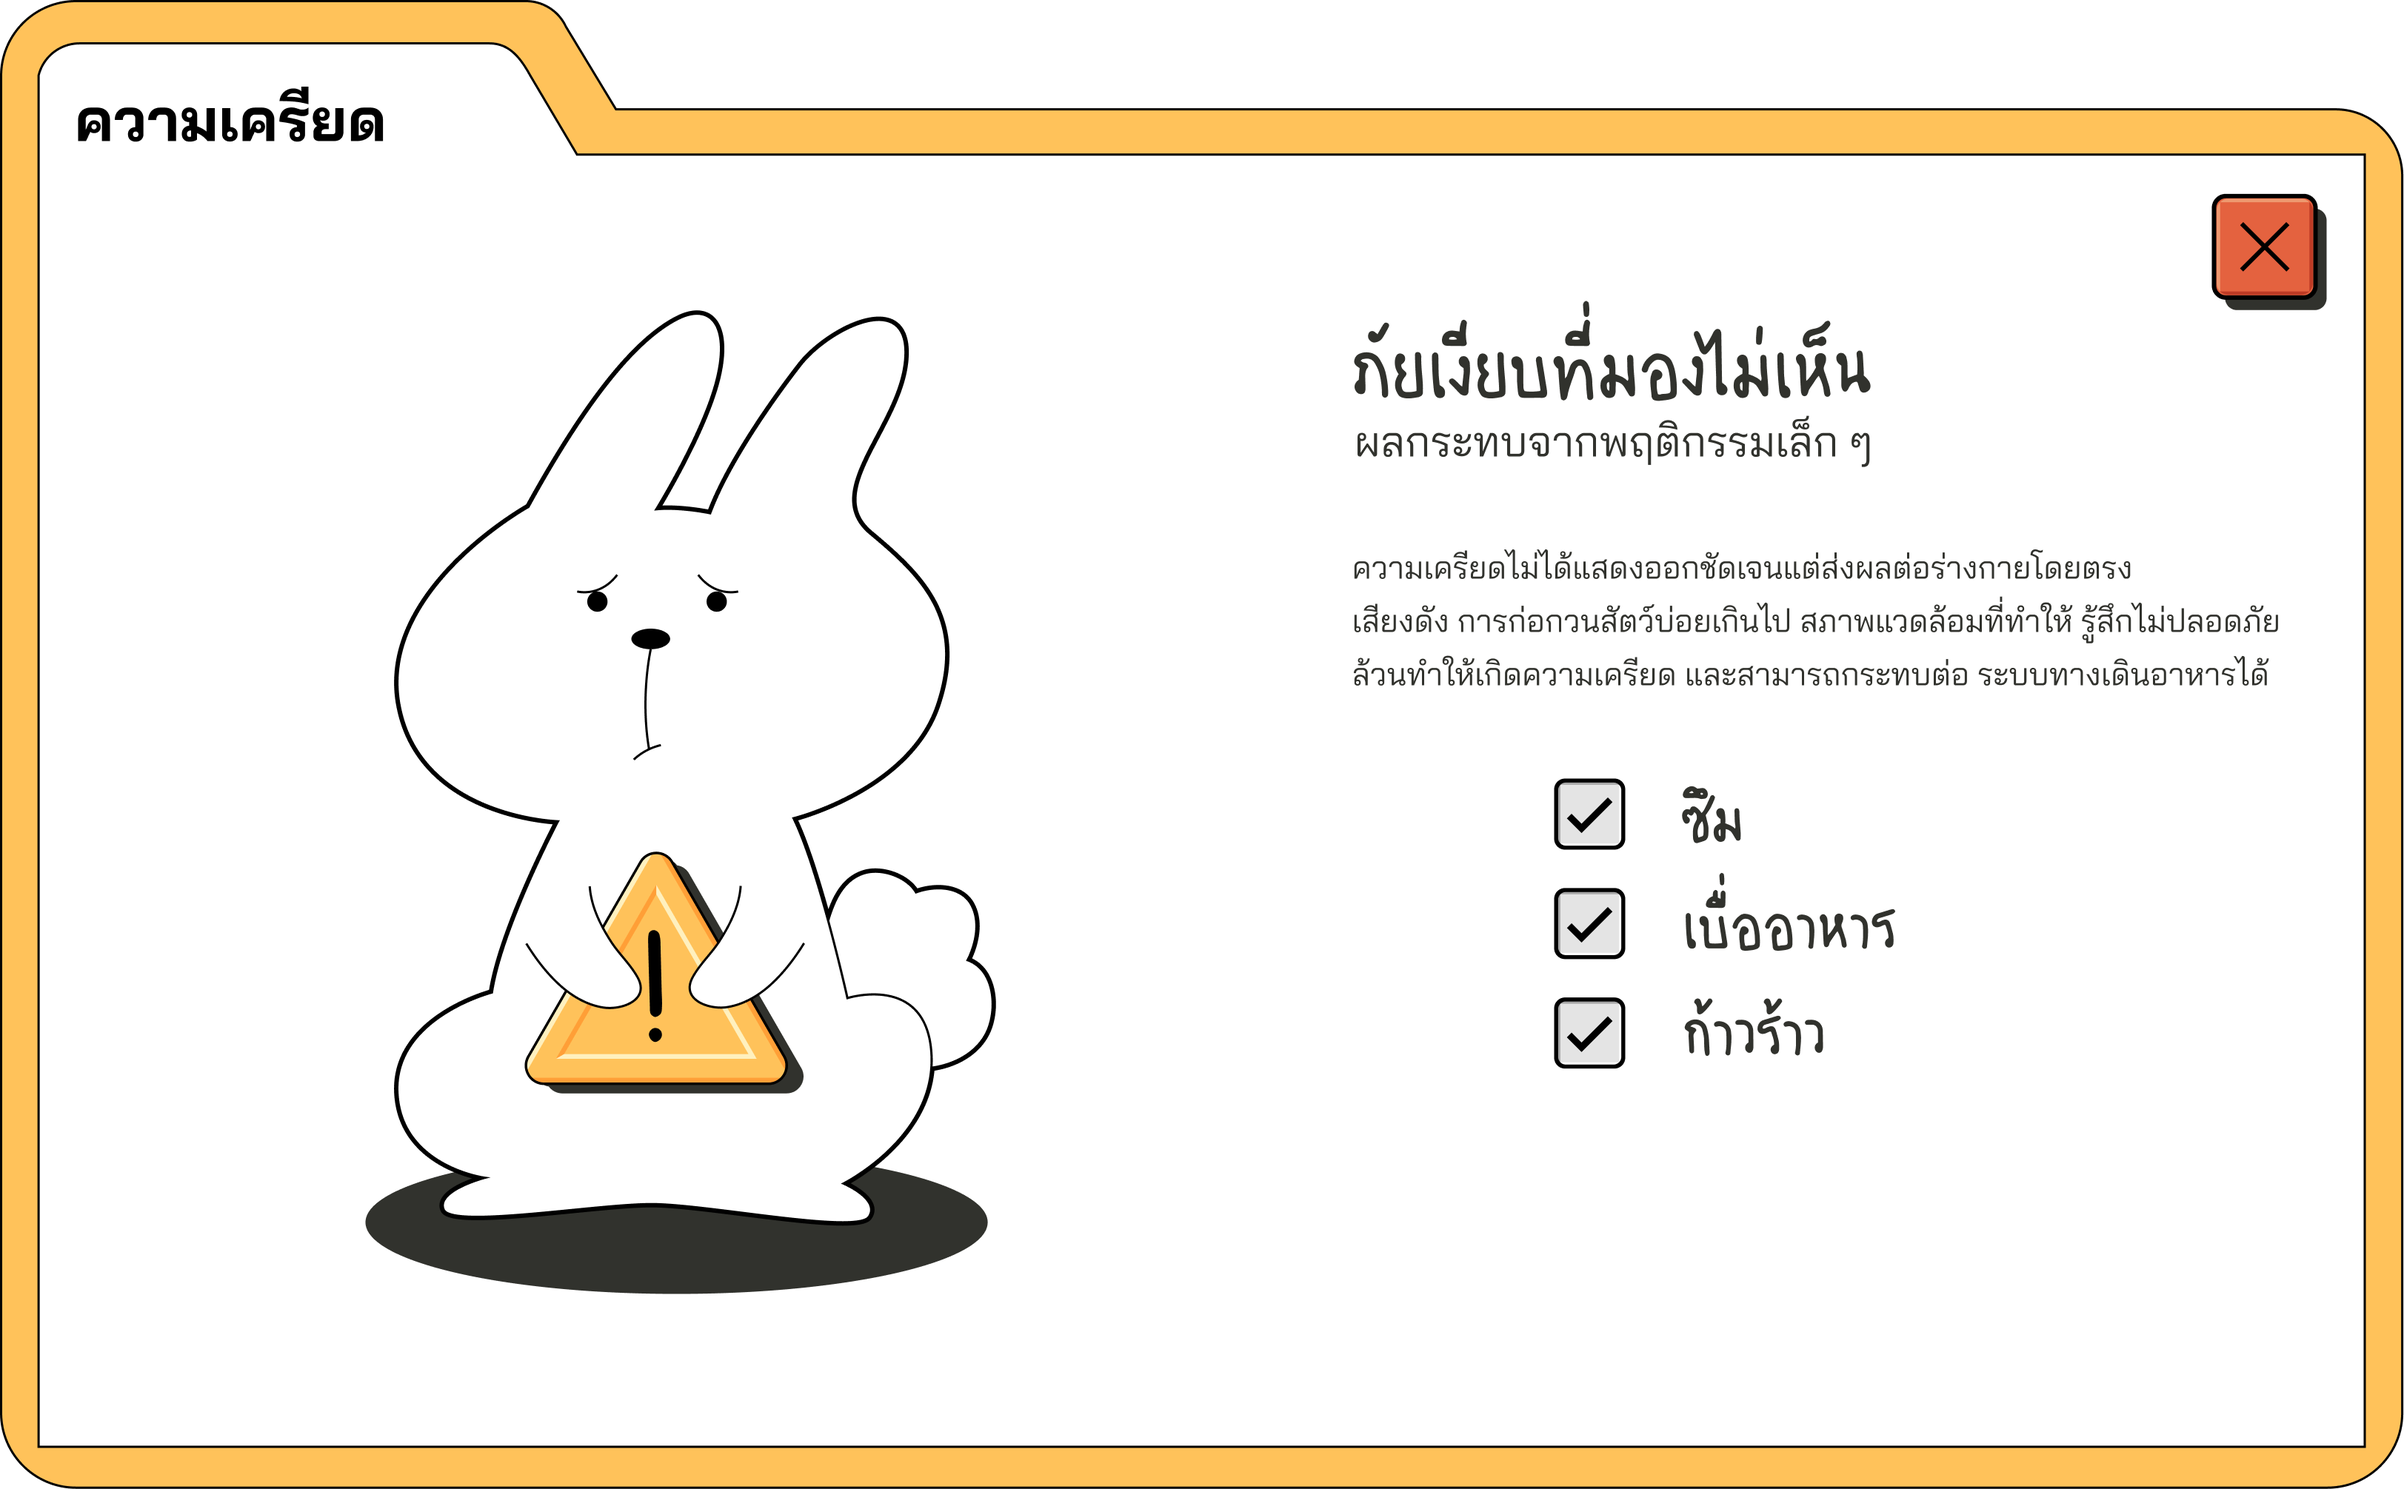
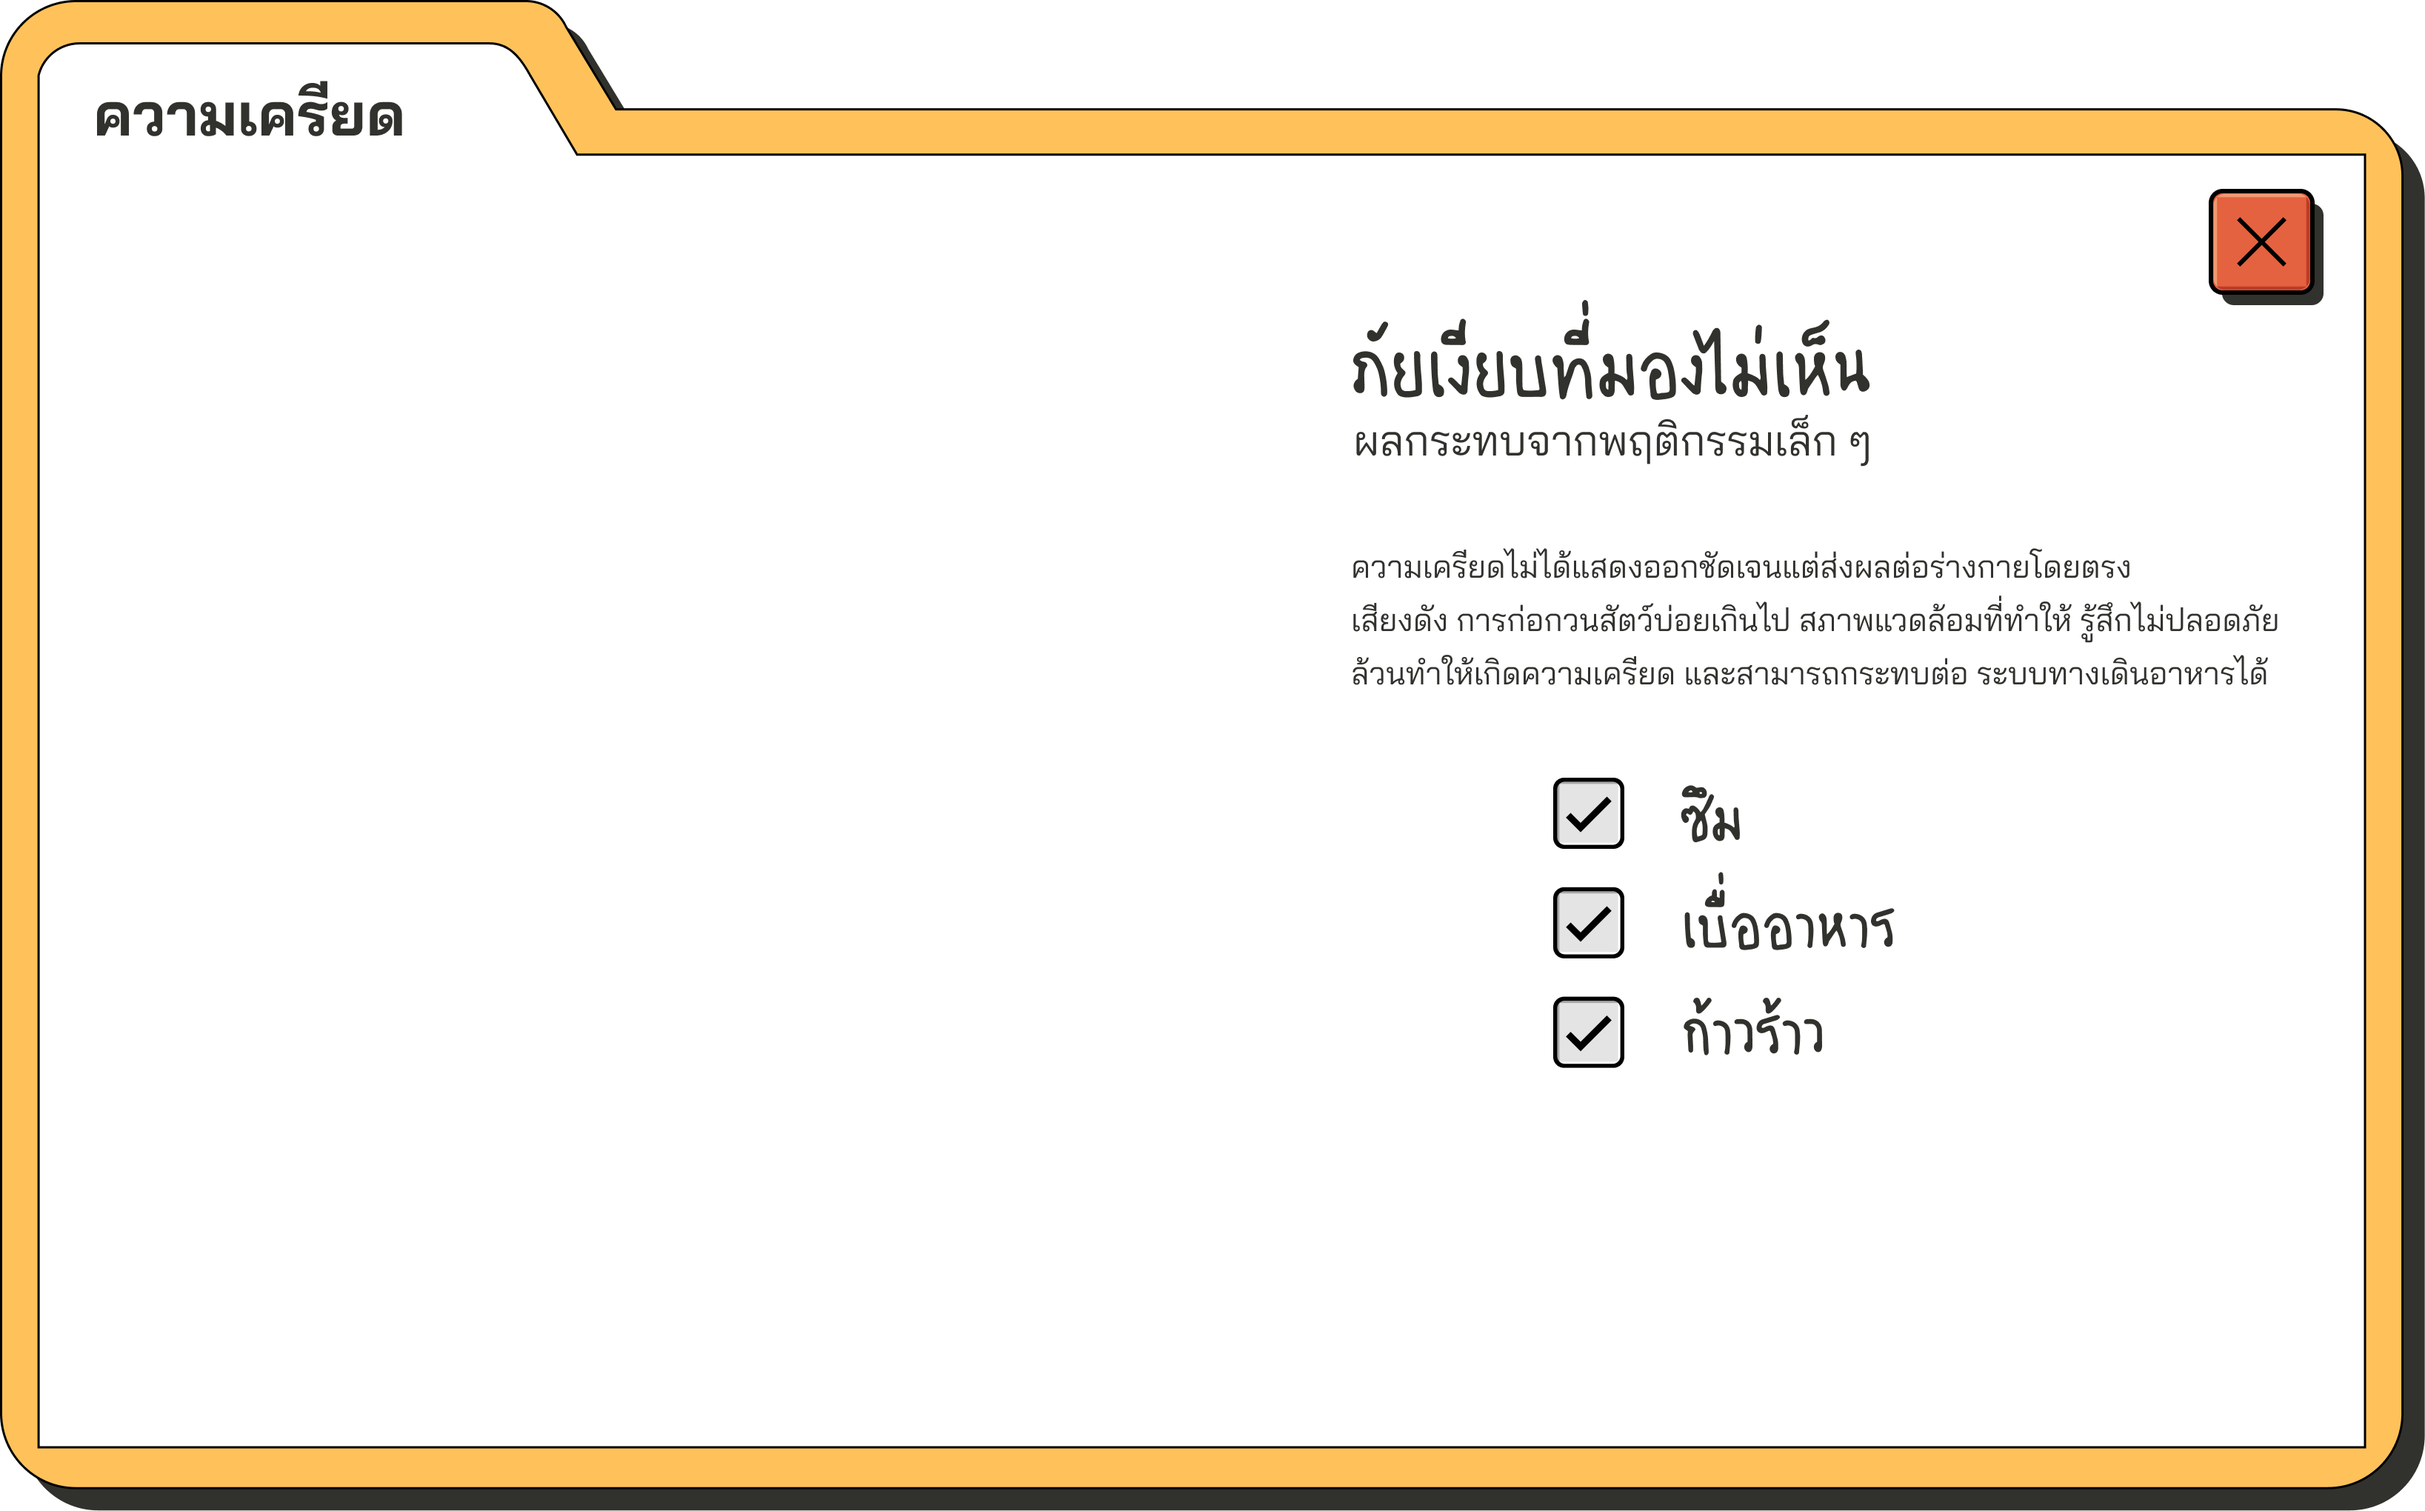
add animation img in stress, food and genetic window

diff --git a/src/pages/rabbitRoom/RabbitOtherFactor.tsx b/src/pages/rabbitRoom/RabbitOtherFactor.tsx
@@ -1,4 +1,4 @@
-import { useState } from "react";
+import { useState, useEffect } from "react";
 import { useNavigate, Outlet, useLocation } from "react-router-dom";
 import { motion, AnimatePresence } from "framer-motion";
 import "./RabbitOtherFactor.css";
@@ -18,6 +18,12 @@ import foodWindow from "../../assets/rabbitRoom/food-window.png";
 import clinicNotice1 from "../../assets/rabbitRoom/clinic-notice-1.png";
 import clinicNotice2 from "../../assets/rabbitRoom/clinic-notice-2.png";
 import clinicNotice3 from "../../assets/rabbitRoom/clinic-notice-3.png";
+import geneticElement from "../../assets/rabbitRoom/genetic-element.png";
+import foodElement1 from "../../assets/rabbitRoom/food-element-1.png";
+import foodElement2 from "../../assets/rabbitRoom/food-element-2.png";
+import foodElement3 from "../../assets/rabbitRoom/food-element-3.png";
+import stressElement1 from "../../assets/rabbitRoom/stress-element-1.png";
+import stressElement2 from "../../assets/rabbitRoom/stress-element-2.png";
 
 const RabbitOtherFactor = () => {
   const navigate = useNavigate();
@@ -25,6 +31,19 @@ const RabbitOtherFactor = () => {
   const [activePopup, setActivePopup] = useState<string | null>(null);
   const [showFinalSequence, setShowFinalSequence] = useState(false);
   const isMapPage = location.pathname.includes("map");
+  const [foodIndex, setFoodIndex] = useState(0);
+  const foodImages = [foodElement1, foodElement2, foodElement3];
+
+  useEffect(() => {
+    let interval: any;
+    if (activePopup === "food") {
+      setFoodIndex(0);
+      interval = setInterval(() => {
+        setFoodIndex((prev) => (prev + 1) % 3);
+      }, 500);
+    }
+    return () => clearInterval(interval);
+  }, [activePopup]);
 
   const folders = [
     {
@@ -90,6 +109,59 @@ const RabbitOtherFactor = () => {
     }, 300);
   };
 
+  const renderSpecialContent = () => {
+    switch (activePopup) {
+      case "genetic":
+        return (
+          <div className="special-overlay genetic-area">
+            <motion.img
+              src={geneticElement}
+              className="genetic-scroll-img"
+              animate={{ y: ["0%", "-39%", "-39%", "0%"] }}
+              transition={{
+                duration: 5,
+                repeat: Infinity,
+                ease: "easeInOut",
+                times: [0, 0.4, 0.7, 1],
+              }}
+            />
+          </div>
+        );
+      case "food":
+        return (
+          <div className="special-overlay food-area">
+            <motion.img
+              key={foodIndex}
+              src={foodImages[foodIndex]}
+              className="food-anim-img"
+              transition={{ duration: 0 }}
+              initial={{ opacity: 1 }}
+              animate={{ opacity: 1 }}
+            />
+          </div>
+        );
+      case "stress":
+        return (
+          <div className="special-overlay stress-area">
+            <img src={stressElement2} className="stress-back-img" />
+            <motion.img
+              src={stressElement1}
+              className="stress-front-img"
+              animate={{ opacity: [1, 0, 1] }}
+              transition={{
+                duration: 2,
+                repeat: Infinity,
+                times: [0, 0.3, 1],
+                ease: "easeInOut",
+              }}
+            />
+          </div>
+        );
+      default:
+        return null;
+    }
+  };
+
   return (
     <motion.div
       className="factor-container-full"
@@ -147,6 +219,7 @@ const RabbitOtherFactor = () => {
                   initial={{ opacity: 0 }}
                   animate={{ opacity: 1 }}
                   exit={{ opacity: 0 }}
+                  onClick={closePopup}
                 >
                   <motion.div
                     className="popup-content-wrapper"
@@ -160,6 +233,9 @@ const RabbitOtherFactor = () => {
                       className="window-img-asset"
                       alt="popup"
                     />
+
+                    {renderSpecialContent()}
+
                     <div className="close-x-trigger" onClick={closePopup} />
                   </motion.div>
                 </motion.div>

diff --git a/src/pages/rabbitRoom/RabbitOtherFactor.css b/src/pages/rabbitRoom/RabbitOtherFactor.css
@@ -1,3 +1,54 @@
+.special-overlay {
+  position: absolute;
+  overflow: hidden;
+  pointer-events: none;
+  display: flex;
+  justify-content: center;
+  align-items: center;
+}
+
+.genetic-area {
+  top: 15.7%;
+  left: 4.2%;
+  width: 48.2%;
+  height: 77.5%;
+  align-items: flex-start;
+}
+.genetic-scroll-img {
+  width: 100%;
+  height: auto;
+}
+
+.food-area {
+  top: 13%;
+  left: -22.2%;
+  width: 100%;
+  height: 80%;
+}
+.food-anim-img {
+  max-width: 100%;
+  max-height: 100%;
+  object-fit: contain;
+}
+
+.stress-area {
+  top: 20.8%;
+  left: -21.6%;
+  width: 100%;
+  height: 66%;
+}
+.stress-back-img,
+.stress-front-img {
+  position: absolute;
+  max-width: 100%;
+  max-height: 100%;
+  height: auto;
+  object-fit: contain;
+}
+.stress-front-img {
+  z-index: 2;
+}
+
 .factor-container-full {
   position: fixed;
   inset: 0;
@@ -60,7 +111,6 @@
   right: 13.95%;
 }
 
-/* Next Button */
 .next-btn-trigger {
   position: absolute;
   bottom: 6.5%;
@@ -111,21 +161,18 @@
 .final-popup {
   position: absolute;
 }
-
 .pos-1 {
   top: 18%;
   left: 44%;
   width: 34.5%;
   z-index: 2001;
 }
-
 .pos-2 {
   top: 46.6%;
   left: 18.8%;
   width: 29.5%;
   z-index: 2002;
 }
-
 .pos-3 {
   bottom: 9.2%;
   right: 22%;
@@ -157,7 +204,6 @@
   width: 32%;
   height: 13%;
 }
-
 .pos-2 .final-btn-snooze {
   bottom: 17%;
   left: 9%;
@@ -170,7 +216,6 @@
   width: 37%;
   height: 17%;
 }
-
 .pos-3 .final-btn-snooze {
   bottom: 17%;
   left: 9.7%;
